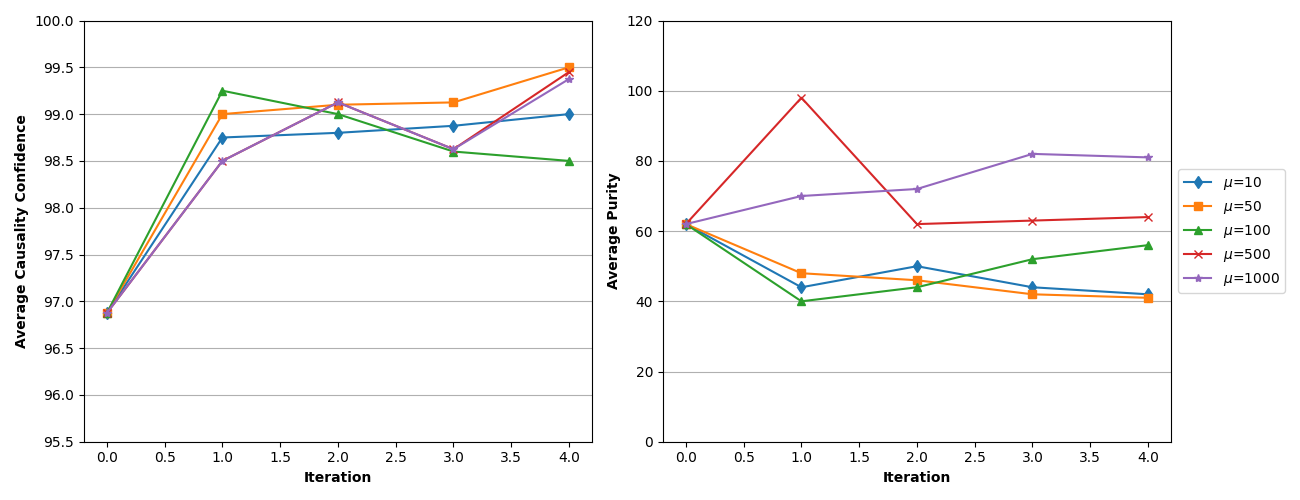
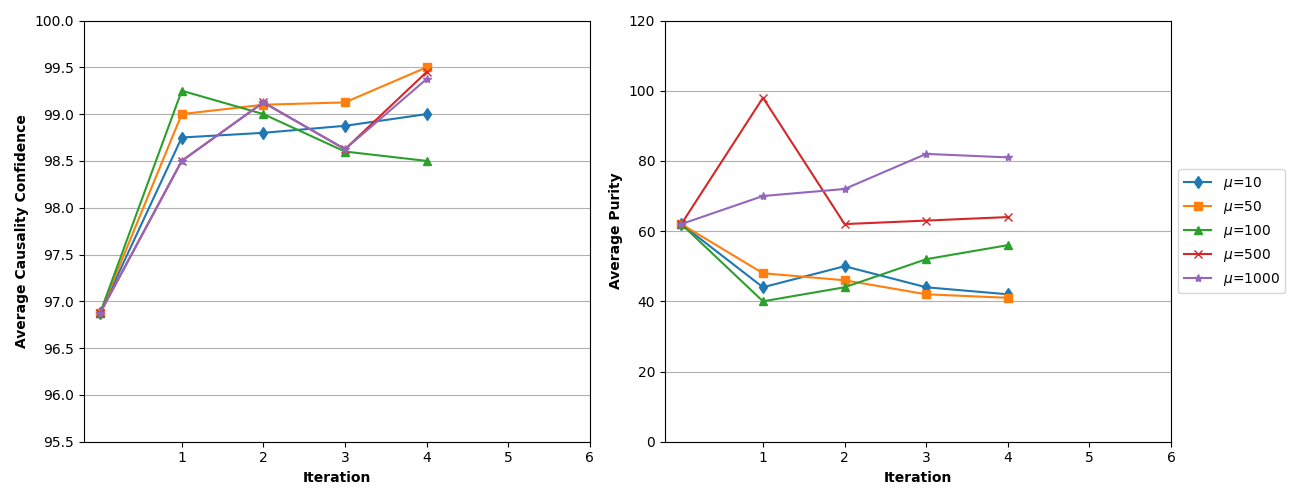
move causality

diff --git a/src/causality.py b/src/causality.py
@@ -1,38 +1,127 @@
-"""This module perform granger test on timeseries."""
+from collections.abc import Iterable
 
-# topic timeseries is generated by
-# date => sum_of_theta
-# apply stationary
-# get rid of dates (Yes)
+import pandas as pd
+import numpy as np
+from statsmodels.tsa.stattools import grangercausalitytests
 
-# nontext time series
-# date => value
-# apply stationary
-# get rid of dates (Yes)
-
-# make time series stationary by
-# To make the
-# input series stationary, we smooth with a moving average filter with
-# window size 3 (average with adjacent values) and use first differ-
-# ences (x t ) − (x t−1 ) of each series. We test causality with up to 5
-# day lags and pick the lag which shows highest significance.
-
-# do it for both time series
+from utils import make_stationary
+from pearson_correlation import get_pearson_correlation
 
 
-# run granger test and chose p-value, 0.05 (typically ≤ 0.05) significant
-
-# would you run pearson coefficents, I would say yes
-# use granger test for pearson coefficients
-
-# The coefficients of lagged x terms estimate
-# the impact of x to y.
-# P p
-# i=1 b i
-# We average the x term coefficients, |p| , as an impact value.
+def get_impact(gc_result, best_lag):
+    impact = np.sum(
+        gc_result[best_lag][1][1].params[best_lag:-1]) / np.abs(best_lag)
+    if impact > 0:
+        return 1
+    elif impact < 0:
+        return -1
+    return impact
 
 
-# To list coefficients use gc_res[3][1][1].params
-# the first p coefficents are for y
-# the second p coefficents are for x
-# the last is intercept.
+def best_lag(gc_result):
+    min_p_value = float('inf')
+    best_lag = 0
+    for k, v in gc_result.items():
+        p_value = v[0]['ssr_ftest'][1]
+        if p_value < min_p_value:
+            best_lag = k
+            min_p_value = 1 - p_value
+    significance = min_p_value
+    impact = get_impact(gc_result, best_lag)
+    return np.array([best_lag, significance, impact])
+
+
+def all_lags(gc_result):
+    output = []
+    for lag, v in gc_result.items():
+        p_value = v[0]['ssr_ftest'][1]
+        significance = 1 - p_value
+        impact = get_impact(gc_result, lag)
+        output.append([lag, significance, impact])
+    return np.array(output)
+
+
+def get_significance(from_data, to_data, lag):
+    """Run granger test and accumulate results."""
+    data = np.stack((to_data, from_data), axis=1)
+    gc_result = grangercausalitytests(data, lag, verbose=False)
+    if isinstance(lag, Iterable):
+        return all_lags(gc_result)
+    return best_lag(gc_result)
+
+
+def normalize_causality(causality):
+    """Normalize significance for all enteries."""
+    # for each lag
+    print(causality.shape)
+    if len(causality.shape) == 3:
+        print(causality[:10])
+        print(-np.sort(-causality[:, :, 1], axis=0)[:10])
+        most_significant = -np.sort(-causality[:, :, 1], axis=0)[0]
+        print('3d most sign', most_significant)
+        causality[:, :, 1] /= most_significant
+
+    else:
+        print(-np.sort(-causality[:, 1])[:10])
+        most_significant = -np.sort(-causality[:, 1])[0]
+        causality[:, 1] /= most_significant
+
+    print(np.round(causality[0], 5))
+
+    return causality
+
+
+def calculate_significance(
+        from_timeseries, to_timeseries, lag, method='granger'):
+    """Calculate significance between timeseries.
+
+    Parameters
+    ----------
+    method : {'granger', 'pearson'}
+    lag : int, default 5
+    """
+    if method == 'granger':
+        # granger test needs stationary series
+        from_timeseries = make_stationary(
+            from_timeseries, window_len=3, axis=1)
+        to_timeseries = make_stationary(to_timeseries, window_len=3)
+        func = get_significance
+    else:
+        func = get_pearson_correlation
+
+    return np.apply_along_axis(
+        func,
+        1,
+        from_timeseries,
+        to_timeseries,
+        lag)
+    # return normalize_causality(causality)
+
+
+def calculate_topic_significance(
+        topics, doc_date_matrix, nontext_series, lag=5, method='granger'):
+    """Calculate topic significance based on lag and method."""
+    time_series = topics.T @ doc_date_matrix
+    # print(time_series.shape)
+    # return time_series
+    return calculate_significance(
+        time_series,
+        nontext_series,
+        lag=lag,
+        method=method)
+
+
+def calculate_topic_significance_seq(doc_topic_prob, doc_date):
+    """Calculate topic significance using for loop."""
+
+    # get dates from experiment1 data
+    # get dates form IEM data
+    # compare if any date missing
+    # if not map with doc id in the document
+    # and multiply
+    # for every topic, for each day, sum all documents theta_j
+    # for every date
+    # find all doc_index
+    # sum the topic_distribution
+
+    pass

diff --git a/src/out_plot.py b/src/out_plot.py
@@ -1,6 +1,7 @@
 """Creates output plots."""
 import matplotlib.pyplot as plt
 import numpy as np
+import pandas as pd
 
 
 def plot_causal_purity(
@@ -15,7 +16,7 @@ def plot_causal_purity(
     for i, (value, causal) in enumerate(avg_causal.items()):
         ax.plot(causal, label=f'{label_prefix}{value}', marker=markers[i])
     ax.set_xlabel('Iteration', weight='bold')
-    # ax.set_xticks(np.arange(1,7))
+    ax.set_xticks(range(1,7))
     ax.yaxis.grid()
     ax.set_yticks(np.arange(95.5, 100.5, .5))
     ax.set_ylabel('Average Causality Confidence', weight='bold')
@@ -26,7 +27,7 @@ def plot_causal_purity(
     ax.set_xlabel('Iteration', weight='bold')
     ax.yaxis.grid()
     ax.set_ylabel('Average Purity', weight='bold')
-    # ax.set_xticks(np.arange(1, 7))
+    ax.set_xticks(range(1, 7))
     ax.set_yticks(np.arange(0, 125, 20))
     # plt.show()
     plt.legend(bbox_to_anchor=(1, 0.5), loc='center left', ncol=1)
@@ -50,3 +51,11 @@ def plot_for_tn(avg_causal_by_tn, avg_purity_by_tn, iterations=5):
         iterations,
         'tn_graph.png',
         'tn=')
+
+def plot_from_mu_csv(filename):
+    csv_data = pd.read_csv(filename).todict()
+
+    # mu,t_n,iteration,avg_significance,
+    # avg_causal = df['avg_significance'].tolist()
+    # avg_purity = df['avg_purity'].tolist()
+

diff --git a/src/main.py b/src/main.py
@@ -149,7 +149,6 @@ def experiment_1_eval():
 
 
 if __name__ == '__main__':
-    command = ''
     if sys.argv[1:]:
         command = sys.argv[1].strip()
         if command == 'retrain':
@@ -169,4 +168,5 @@ if __name__ == '__main__':
                 'python main.py graph   '
                 '# retrain model and run timeseries feedback to produce graphs.')
             exit(1)
-    experiment_1(load_saved=True)
+    else:
+        experiment_1(load_saved=True)
